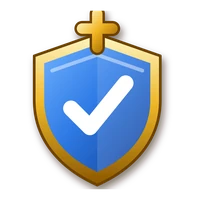
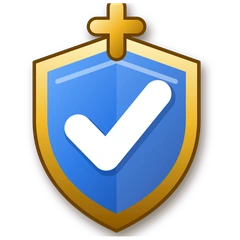
관리자 뱃지: 방패·체크를 크게, 메달을 글줄 가운데에
Claude-Session: https://claude.ai/code/session_01GbN1M7j97vtSonwbPRfmsY

diff --git a/components/RoleBadge.tsx b/components/RoleBadge.tsx
@@ -25,9 +25,9 @@ export default function RoleBadge({ type, size = 'sm', showLabel = false, onClic
     <span role="button" tabIndex={0} onClick={open} onKeyDown={e => { if (e.key === 'Enter' || e.key === ' ') open(e); }}
       className={`inline-flex items-center gap-1 shrink-0 align-middle rounded-full border font-bold leading-none cursor-pointer ${badge.className} ${showLabel ? (size === 'md' ? 'pl-0.5 pr-2 py-0.5' : 'pl-px pr-1.5 py-px') : 'p-0 border-0 bg-transparent'} ${text}`}
       title={`인증된 ${badge.label}`} aria-label={`인증된 ${badge.label} — 무슨 뱃지인지 보기`}>
-      {/* 관리자는 월계관·왕관 그림이라 같은 칸에서는 너무 작음 → 3.2배로 크게(운영자 2026-11-14 '많이 크게'). 글줄 높이는 그대로 두고 위(왕관)·옆으로 넘치게 */}
+      {/* 관리자는 월계관·왕관 그림이라 같은 칸에서는 너무 작음 → 3.2배로 크게(운영자 2026-11-14 '많이 크게'). 글줄 높이는 그대로 두고 위아래·옆으로 똑같이 넘치게 — 메달 가운데가 글줄 가운데에 오도록 */}
       {badge.key === 'admin'
-        ? (() => { const B = Math.round(icon * 3.2), ex = B - icon; return <span className="inline-flex shrink-0 relative z-[1]" style={{ margin: `-${Math.round(ex * 0.62)}px -${Math.round(B * 0.1)}px -${Math.round(ex * 0.38)}px -${Math.round(B * 0.1)}px` }}><RoleIcon type="admin" size={B} title={`인증된 ${badge.label}`} /></span>; })()
+        ? (() => { const B = Math.round(icon * 3.2), ex = B - icon; return <span className="inline-flex shrink-0 relative z-[1]" style={{ margin: `-${Math.round(ex / 2)}px -${Math.round(B * 0.1)}px` }}><RoleIcon type="admin" size={B} title={`인증된 ${badge.label}`} /></span>; })()
         : <RoleIcon type={badge.key} size={icon} title={`인증된 ${badge.label}`} />}
       {showLabel && <span>{badge.label}</span>}
     </span>

diff --git a/components/MemberBadges.tsx b/components/MemberBadges.tsx
@@ -243,7 +243,7 @@ export function BadgeListDialog({ userId, name, highlight, onClose, empty, showH
         </div>
         <div className="flex-1 min-h-0 overflow-y-auto divide-y divide-stone-100 pb-[env(safe-area-inset-bottom)]">
           {mine && !hidden && rows.length > 1 && <p className="px-4 py-2.5 text-[0.8125rem] text-stone-600 bg-stone-50">이름 옆에는 <b>대표 뱃지 하나</b>만 보여요. 바꾸려면 &lsquo;대표로&rsquo;를 누르세요.</p>}
-          {clergy && item(`role:${clergy}`, (clergy === 'admin' ? <span className="inline-flex" style={{ margin: '-18px -14px -12px' }}><RoleIcon type="admin" size={80} /></span> : <RoleIcon type={clergy} size={48} />), `인증된 ${BADGES[clergy].label}`, BADGES[clergy].desc + (clergy === 'admin' ? '' : ' 관리자가 직접 확인하고 달아 드린 인증 뱃지예요.'))}
+          {clergy && item(`role:${clergy}`, (clergy === 'admin' ? <span className="inline-flex" style={{ margin: '-16px -14px' }}><RoleIcon type="admin" size={80} /></span> : <RoleIcon type={clergy} size={48} />), `인증된 ${BADGES[clergy].label}`, BADGES[clergy].desc + (clergy === 'admin' ? '' : ' 관리자가 직접 확인하고 달아 드린 인증 뱃지예요.'))}
           {!hidden && shownBadges(rows.map(r => r.badge_key)).map(sb => {
             const r = rows.find(x => x.badge_key === sb.key)!; const def = badgeOf(sb.key)!;
             const title = def.tier ? `${def.label} · ${TIERS[def.tier - 1].name}${sb.champion ? ` · 1등 (${sb.label})` : ''}` : def.label;

diff --git a/components/BadgeIcon.tsx b/components/BadgeIcon.tsx
@@ -432,7 +432,8 @@ function Badge3D({ def, size, champion, emblemKey, label, tierIdx, noNum, spinSm
   const special = ti >= 5;                                    // 큰 나무·생명의 나무: 판이 반짝임
   // 메달 칸 (1등이면 월계관 안쪽으로 줄여 넣음). 단위는 바깥 칸의 %
   const m = champion ? { l: 22.21, t: 22.35, w: 55.59 } : { l: -4, t: -4, w: 108 };
-  const ew = num ? 40.05 : 46.4, ecy = num ? 45.23 : 50;
+  // 관리자 방패는 판을 거의 채우게 크게 (운영자 2026-11-14: 체크가 눈에 잘 띄게)
+  const ew = emb === 'admin' ? 66 : num ? 40.05 : 46.4, ecy = emb === 'admin' ? 50 : num ? 45.23 : 50;
   const stars = champion ? CHAMP_STARS : special ? TIER_STARS.map(([x, y, s, ph]) => [m.l + x * m.w / 100, m.t + y * m.w / 100, s * 1.5, ph] as [number, number, number, number]) : [];
   return (
     <span role="img" aria-label={label} className="shrink-0" style={{ position: 'relative', display: 'inline-block', verticalAlign: 'middle', width: px, height: px }}>

diff --git a/docs/history/2026-11.md b/docs/history/2026-11.md
@@ -145,3 +145,4 @@
 - 11-14 관리자 인증 뱃지도 금 메달(파란 방패·체크·십자가 `public/badges/3d/emblem/admin.webp`) + 금 월계관 + 도는 왕관으로 (`RoleIcon` admin → `Badge3D`, 알약 안에서는 1.4배)
 - 11-14 이름 옆에는 뱃지 그림만: 대표 뱃지 알약의 '공감 60' 글자와 역할 알약의 '관리자' 글자를 뺌(`BadgePill`, `RoleBadge` showLabel 기본 false). 누르면 대표 뱃지는 뱃지 모두 보기 창, 역할 뱃지는 짧은 안내 창
 - 11-14 관리자 뱃지 크게: 이름 옆 알약 칸의 3.2배(`RoleBadge`, 글줄 높이는 그대로 위·옆으로 넘침), 뱃지 모두 보기 창에서는 80px. 작은 자리에서도 관리자 왕관은 돎(`Badge3D` spinSmall). 가짜 수파베이스로 앱 화면에서 확인(`/tmp/cgexp/steps-adm.mjs`·`steps-spin.mjs`)
+- 11-14 관리자 뱃지: 파란 방패·체크를 판을 거의 채우게 크게(체크 굵게, `Badge3D` admin ew 66), 메달 가운데를 이름 글줄 가운데에 정확히(`RoleBadge` 위아래 같은 여백)
